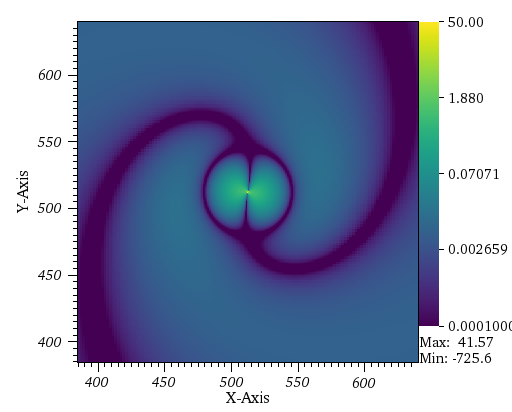
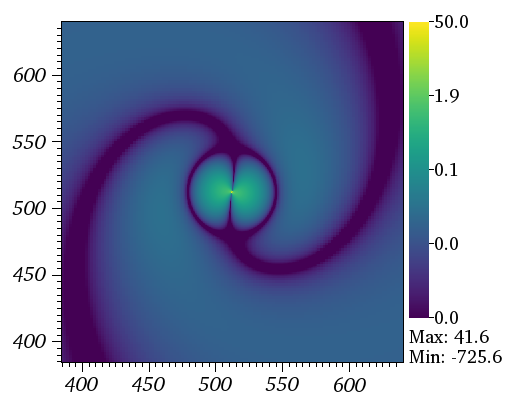
new plots

Changed region(s): [[0.3438, 0.0291, 1.0, 0.9612], [0.0312, 0.0291, 0.375, 0.9612], [0.375, 0.8738, 0.625, 0.9903]]

diff --git a/Analysis/visit/visitlog.py b/Analysis/visit/visitlog.py
@@ -91,7 +91,7 @@ AnnotationAtts.axes2D.autoSetScaling = 1
 AnnotationAtts.axes2D.lineWidth = 0
 AnnotationAtts.axes2D.tickLocation = AnnotationAtts.axes2D.Outside  # Inside, Outside, Both
 AnnotationAtts.axes2D.tickAxes = AnnotationAtts.axes2D.BottomLeft  # Off, Bottom, Left, BottomLeft, All
-AnnotationAtts.axes2D.xAxis.title.visible = 1
+AnnotationAtts.axes2D.xAxis.title.visible = 0
 AnnotationAtts.axes2D.xAxis.title.font.font = AnnotationAtts.axes2D.xAxis.title.font.Times  # Arial, Courier, Times
 AnnotationAtts.axes2D.xAxis.title.font.scale = 2
 AnnotationAtts.axes2D.xAxis.title.font.useForegroundColor = 1
@@ -104,7 +104,7 @@ AnnotationAtts.axes2D.xAxis.title.title = "X-Axis"
 AnnotationAtts.axes2D.xAxis.title.units = ""
 AnnotationAtts.axes2D.xAxis.label.visible = 1
 AnnotationAtts.axes2D.xAxis.label.font.font = AnnotationAtts.axes2D.xAxis.label.font.Times  # Arial, Courier, Times
-AnnotationAtts.axes2D.xAxis.label.font.scale = 1.7
+AnnotationAtts.axes2D.xAxis.label.font.scale = 2.5
 AnnotationAtts.axes2D.xAxis.label.font.useForegroundColor = 1
 AnnotationAtts.axes2D.xAxis.label.font.color = (0, 0, 0, 255)
 AnnotationAtts.axes2D.xAxis.label.font.bold = 0
@@ -116,7 +116,7 @@ AnnotationAtts.axes2D.xAxis.tickMarks.majorMaximum = 1
 AnnotationAtts.axes2D.xAxis.tickMarks.minorSpacing = 0.02
 AnnotationAtts.axes2D.xAxis.tickMarks.majorSpacing = 0.2
 AnnotationAtts.axes2D.xAxis.grid = 0
-AnnotationAtts.axes2D.yAxis.title.visible = 1
+AnnotationAtts.axes2D.yAxis.title.visible = 0
 AnnotationAtts.axes2D.yAxis.title.font.font = AnnotationAtts.axes2D.yAxis.title.font.Times  # Arial, Courier, Times
 AnnotationAtts.axes2D.yAxis.title.font.scale = 2
 AnnotationAtts.axes2D.yAxis.title.font.useForegroundColor = 1
@@ -129,7 +129,7 @@ AnnotationAtts.axes2D.yAxis.title.title = "Y-Axis"
 AnnotationAtts.axes2D.yAxis.title.units = ""
 AnnotationAtts.axes2D.yAxis.label.visible = 1
 AnnotationAtts.axes2D.yAxis.label.font.font = AnnotationAtts.axes2D.yAxis.label.font.Times  # Arial, Courier, Times
-AnnotationAtts.axes2D.yAxis.label.font.scale = 1.7
+AnnotationAtts.axes2D.yAxis.label.font.scale = 2.5
 AnnotationAtts.axes2D.yAxis.label.font.useForegroundColor = 1
 AnnotationAtts.axes2D.yAxis.label.font.color = (0, 0, 0, 255)
 AnnotationAtts.axes2D.yAxis.label.font.bold = 0
@@ -294,10 +294,11 @@ SetAnnotationAttributes(AnnotationAtts)
 # Logging for SetAnnotationObjectOptions is not implemented yet.
 # Logging for SetAnnotationObjectOptions is not implemented yet.
 # Logging for SetAnnotationObjectOptions is not implemented yet.
+# Logging for SetAnnotationObjectOptions is not implemented yet.
 # Begin spontaneous state
 View2DAtts = View2DAttributes()
 View2DAtts.windowCoords = (384, 640, 384, 640)
-View2DAtts.viewportCoords = (0.15, 0.85, 0.12, 0.95)
+View2DAtts.viewportCoords = (0.12, 0.92, 0.12, 0.95)
 View2DAtts.fullFrameActivationMode = View2DAtts.Auto  # On, Off, Auto
 View2DAtts.fullFrameAutoThreshold = 100
 View2DAtts.xScale = View2DAtts.LINEAR  # LINEAR, LOG
@@ -308,7 +309,7 @@ SetView2D(View2DAtts)
 
 View2DAtts = View2DAttributes()
 View2DAtts.windowCoords = (384, 640, 384, 640)
-View2DAtts.viewportCoords = (0.15, 0.85, 0.12, 0.95)
+View2DAtts.viewportCoords = (0.12, 0.92, 0.12, 0.95)
 View2DAtts.fullFrameActivationMode = View2DAtts.Auto  # On, Off, Auto
 View2DAtts.fullFrameAutoThreshold = 100
 View2DAtts.xScale = View2DAtts.LINEAR  # LINEAR, LOG

diff --git a/Analysis/visit/rho_azimuth_plot_script.py b/Analysis/visit/rho_azimuth_plot_script.py
@@ -74,6 +74,8 @@ SetPlotSILRestriction(silr ,1)
 DrawPlots()
 
 # Annotation attributes
+axes_label_scale = 2
+ticks_label_scale = 2.5
 AnnotationAtts = AnnotationAttributes()
 AnnotationAtts.axes2D.visible = 1
 AnnotationAtts.axes2D.autoSetTicks = 1
@@ -81,7 +83,7 @@ AnnotationAtts.axes2D.autoSetScaling = 1
 AnnotationAtts.axes2D.lineWidth = 0
 AnnotationAtts.axes2D.tickLocation = AnnotationAtts.axes2D.Outside  # Inside, Outside, Both
 AnnotationAtts.axes2D.tickAxes = AnnotationAtts.axes2D.BottomLeft  # Off, Bottom, Left, BottomLeft, All
-AnnotationAtts.axes2D.xAxis.title.visible = 1
+AnnotationAtts.axes2D.xAxis.title.visible = 0
 AnnotationAtts.axes2D.xAxis.title.font.font = AnnotationAtts.axes2D.xAxis.title.font.Times  # Arial, Courier, Times
 AnnotationAtts.axes2D.xAxis.title.font.scale = 2
 AnnotationAtts.axes2D.xAxis.title.font.useForegroundColor = 1
@@ -94,7 +96,7 @@ AnnotationAtts.axes2D.xAxis.title.title = "X-Axis"
 AnnotationAtts.axes2D.xAxis.title.units = ""
 AnnotationAtts.axes2D.xAxis.label.visible = 1
 AnnotationAtts.axes2D.xAxis.label.font.font = AnnotationAtts.axes2D.xAxis.label.font.Times  # Arial, Courier, Times
-AnnotationAtts.axes2D.xAxis.label.font.scale = 1.7
+AnnotationAtts.axes2D.xAxis.label.font.scale = ticks_label_scale
 AnnotationAtts.axes2D.xAxis.label.font.useForegroundColor = 1
 AnnotationAtts.axes2D.xAxis.label.font.color = (0, 0, 0, 255)
 AnnotationAtts.axes2D.xAxis.label.font.bold = 0
@@ -104,7 +106,7 @@ AnnotationAtts.axes2D.xAxis.tickMarks.visible = 1
 AnnotationAtts.axes2D.xAxis.tickMarks.majorMinimum = 0
 AnnotationAtts.axes2D.xAxis.tickMarks.majorMaximum = 1
 AnnotationAtts.axes2D.xAxis.grid = 0
-AnnotationAtts.axes2D.yAxis.title.visible = 1
+AnnotationAtts.axes2D.yAxis.title.visible = 0
 AnnotationAtts.axes2D.yAxis.title.font.font = AnnotationAtts.axes2D.yAxis.title.font.Times  # Arial, Courier, Times
 AnnotationAtts.axes2D.yAxis.title.font.scale = 2
 AnnotationAtts.axes2D.yAxis.title.font.useForegroundColor = 1
@@ -117,7 +119,7 @@ AnnotationAtts.axes2D.yAxis.label.font.bold = 0
 AnnotationAtts.axes2D.yAxis.title.title = "Y-Axis"
 AnnotationAtts.axes2D.yAxis.title.units = ""
 AnnotationAtts.axes2D.yAxis.label.visible = 1
-AnnotationAtts.axes2D.yAxis.label.font.scale = 1.7
+AnnotationAtts.axes2D.yAxis.label.font.scale = ticks_label_scale
 AnnotationAtts.axes2D.yAxis.label.font.font = AnnotationAtts.axes2D.yAxis.label.font.Times  # Arial, Courier, Times
 AnnotationAtts.userInfoFlag = 0
 AnnotationAtts.databaseInfoFlag = 0
@@ -128,18 +130,19 @@ legend = GetAnnotationObject(GetPlotList().GetPlots(0).plotName)
 legend.xScale = 1
 legend.yScale = 3.2
 legend.managePosition = 0
-legend.position = (0.82, 0.95)
+legend.position = (0.8, 0.95)
 # the font.
+legend.numberFormat = "%.1f"
 legend.fontFamily = legend.Times
 legend.fontBold = 0
 legend.fontItalic = 0
 legend.drawTitle = 0
-legend.fontHeight = 0.035
+legend.fontHeight = 0.045
 
 # Set viewing attributes
 View2DAtts = View2DAttributes()
 View2DAtts.windowCoords = (512-0.5*width, 512+0.5*width, 512-0.5*width, 512+0.5*width)
-View2DAtts.viewportCoords = (0.15, 0.85, 0.12, 0.95)
+View2DAtts.viewportCoords = (0.12, 0.92, 0.12, 0.95)
 View2DAtts.fullFrameActivationMode = View2DAtts.Auto  # On, Off, Auto
 View2DAtts.fullFrameAutoThreshold = 100
 View2DAtts.xScale = View2DAtts.LINEAR  # LINEAR, LOG

diff --git a/Analysis/visit/rho_plot_script.py b/Analysis/visit/rho_plot_script.py
@@ -74,6 +74,7 @@ SetPlotSILRestriction(silr ,1)
 DrawPlots()
 
 # Annotation attributes
+ticks_label_scale = 2.5
 AnnotationAtts = AnnotationAttributes()
 AnnotationAtts.axes2D.visible = 1
 AnnotationAtts.axes2D.autoSetTicks = 1
@@ -81,7 +82,7 @@ AnnotationAtts.axes2D.autoSetScaling = 1
 AnnotationAtts.axes2D.lineWidth = 0
 AnnotationAtts.axes2D.tickLocation = AnnotationAtts.axes2D.Outside  # Inside, Outside, Both
 AnnotationAtts.axes2D.tickAxes = AnnotationAtts.axes2D.BottomLeft  # Off, Bottom, Left, BottomLeft, All
-AnnotationAtts.axes2D.xAxis.title.visible = 1
+AnnotationAtts.axes2D.xAxis.title.visible = 0
 AnnotationAtts.axes2D.xAxis.title.font.font = AnnotationAtts.axes2D.xAxis.title.font.Times  # Arial, Courier, Times
 AnnotationAtts.axes2D.xAxis.title.font.scale = 2
 AnnotationAtts.axes2D.xAxis.title.font.useForegroundColor = 1
@@ -94,7 +95,7 @@ AnnotationAtts.axes2D.xAxis.title.title = "X-Axis"
 AnnotationAtts.axes2D.xAxis.title.units = ""
 AnnotationAtts.axes2D.xAxis.label.visible = 1
 AnnotationAtts.axes2D.xAxis.label.font.font = AnnotationAtts.axes2D.xAxis.label.font.Times  # Arial, Courier, Times
-AnnotationAtts.axes2D.xAxis.label.font.scale = 1.7
+AnnotationAtts.axes2D.xAxis.label.font.scale = ticks_label_scale
 AnnotationAtts.axes2D.xAxis.label.font.useForegroundColor = 1
 AnnotationAtts.axes2D.xAxis.label.font.color = (0, 0, 0, 255)
 AnnotationAtts.axes2D.xAxis.label.font.bold = 0
@@ -104,7 +105,7 @@ AnnotationAtts.axes2D.xAxis.tickMarks.visible = 1
 AnnotationAtts.axes2D.xAxis.tickMarks.majorMinimum = 0
 AnnotationAtts.axes2D.xAxis.tickMarks.majorMaximum = 1
 AnnotationAtts.axes2D.xAxis.grid = 0
-AnnotationAtts.axes2D.yAxis.title.visible = 1
+AnnotationAtts.axes2D.yAxis.title.visible = 0
 AnnotationAtts.axes2D.yAxis.title.font.font = AnnotationAtts.axes2D.yAxis.title.font.Times  # Arial, Courier, Times
 AnnotationAtts.axes2D.yAxis.title.font.scale = 2
 AnnotationAtts.axes2D.yAxis.title.font.useForegroundColor = 1
@@ -117,7 +118,7 @@ AnnotationAtts.axes2D.yAxis.label.font.bold = 0
 AnnotationAtts.axes2D.yAxis.title.title = "Y-Axis"
 AnnotationAtts.axes2D.yAxis.title.units = ""
 AnnotationAtts.axes2D.yAxis.label.visible = 1
-AnnotationAtts.axes2D.yAxis.label.font.scale = 1.7
+AnnotationAtts.axes2D.yAxis.label.font.scale = ticks_label_scale
 AnnotationAtts.axes2D.yAxis.label.font.font = AnnotationAtts.axes2D.yAxis.label.font.Times  # Arial, Courier, Times
 AnnotationAtts.userInfoFlag = 0
 AnnotationAtts.databaseInfoFlag = 0
@@ -130,16 +131,17 @@ legend.yScale = 3.2
 legend.managePosition = 0
 legend.position = (0.82, 0.95)
 # the font.
+legend.numberFormat = "%.1f"
 legend.fontFamily = legend.Times
 legend.fontBold = 0
 legend.fontItalic = 0
 legend.drawTitle = 0
-legend.fontHeight = 0.035
+legend.fontHeight = 0.045
 
 # Set viewing attributes
 View2DAtts = View2DAttributes()
 View2DAtts.windowCoords = (512-0.5*width, 512+0.5*width, 512-0.5*width, 512+0.5*width)
-View2DAtts.viewportCoords = (0.15, 0.85, 0.12, 0.95)
+View2DAtts.viewportCoords = (0.12, 0.9, 0.12, 0.98)
 View2DAtts.fullFrameActivationMode = View2DAtts.Auto  # On, Off, Auto
 View2DAtts.fullFrameAutoThreshold = 100
 View2DAtts.xScale = View2DAtts.LINEAR  # LINEAR, LOG
